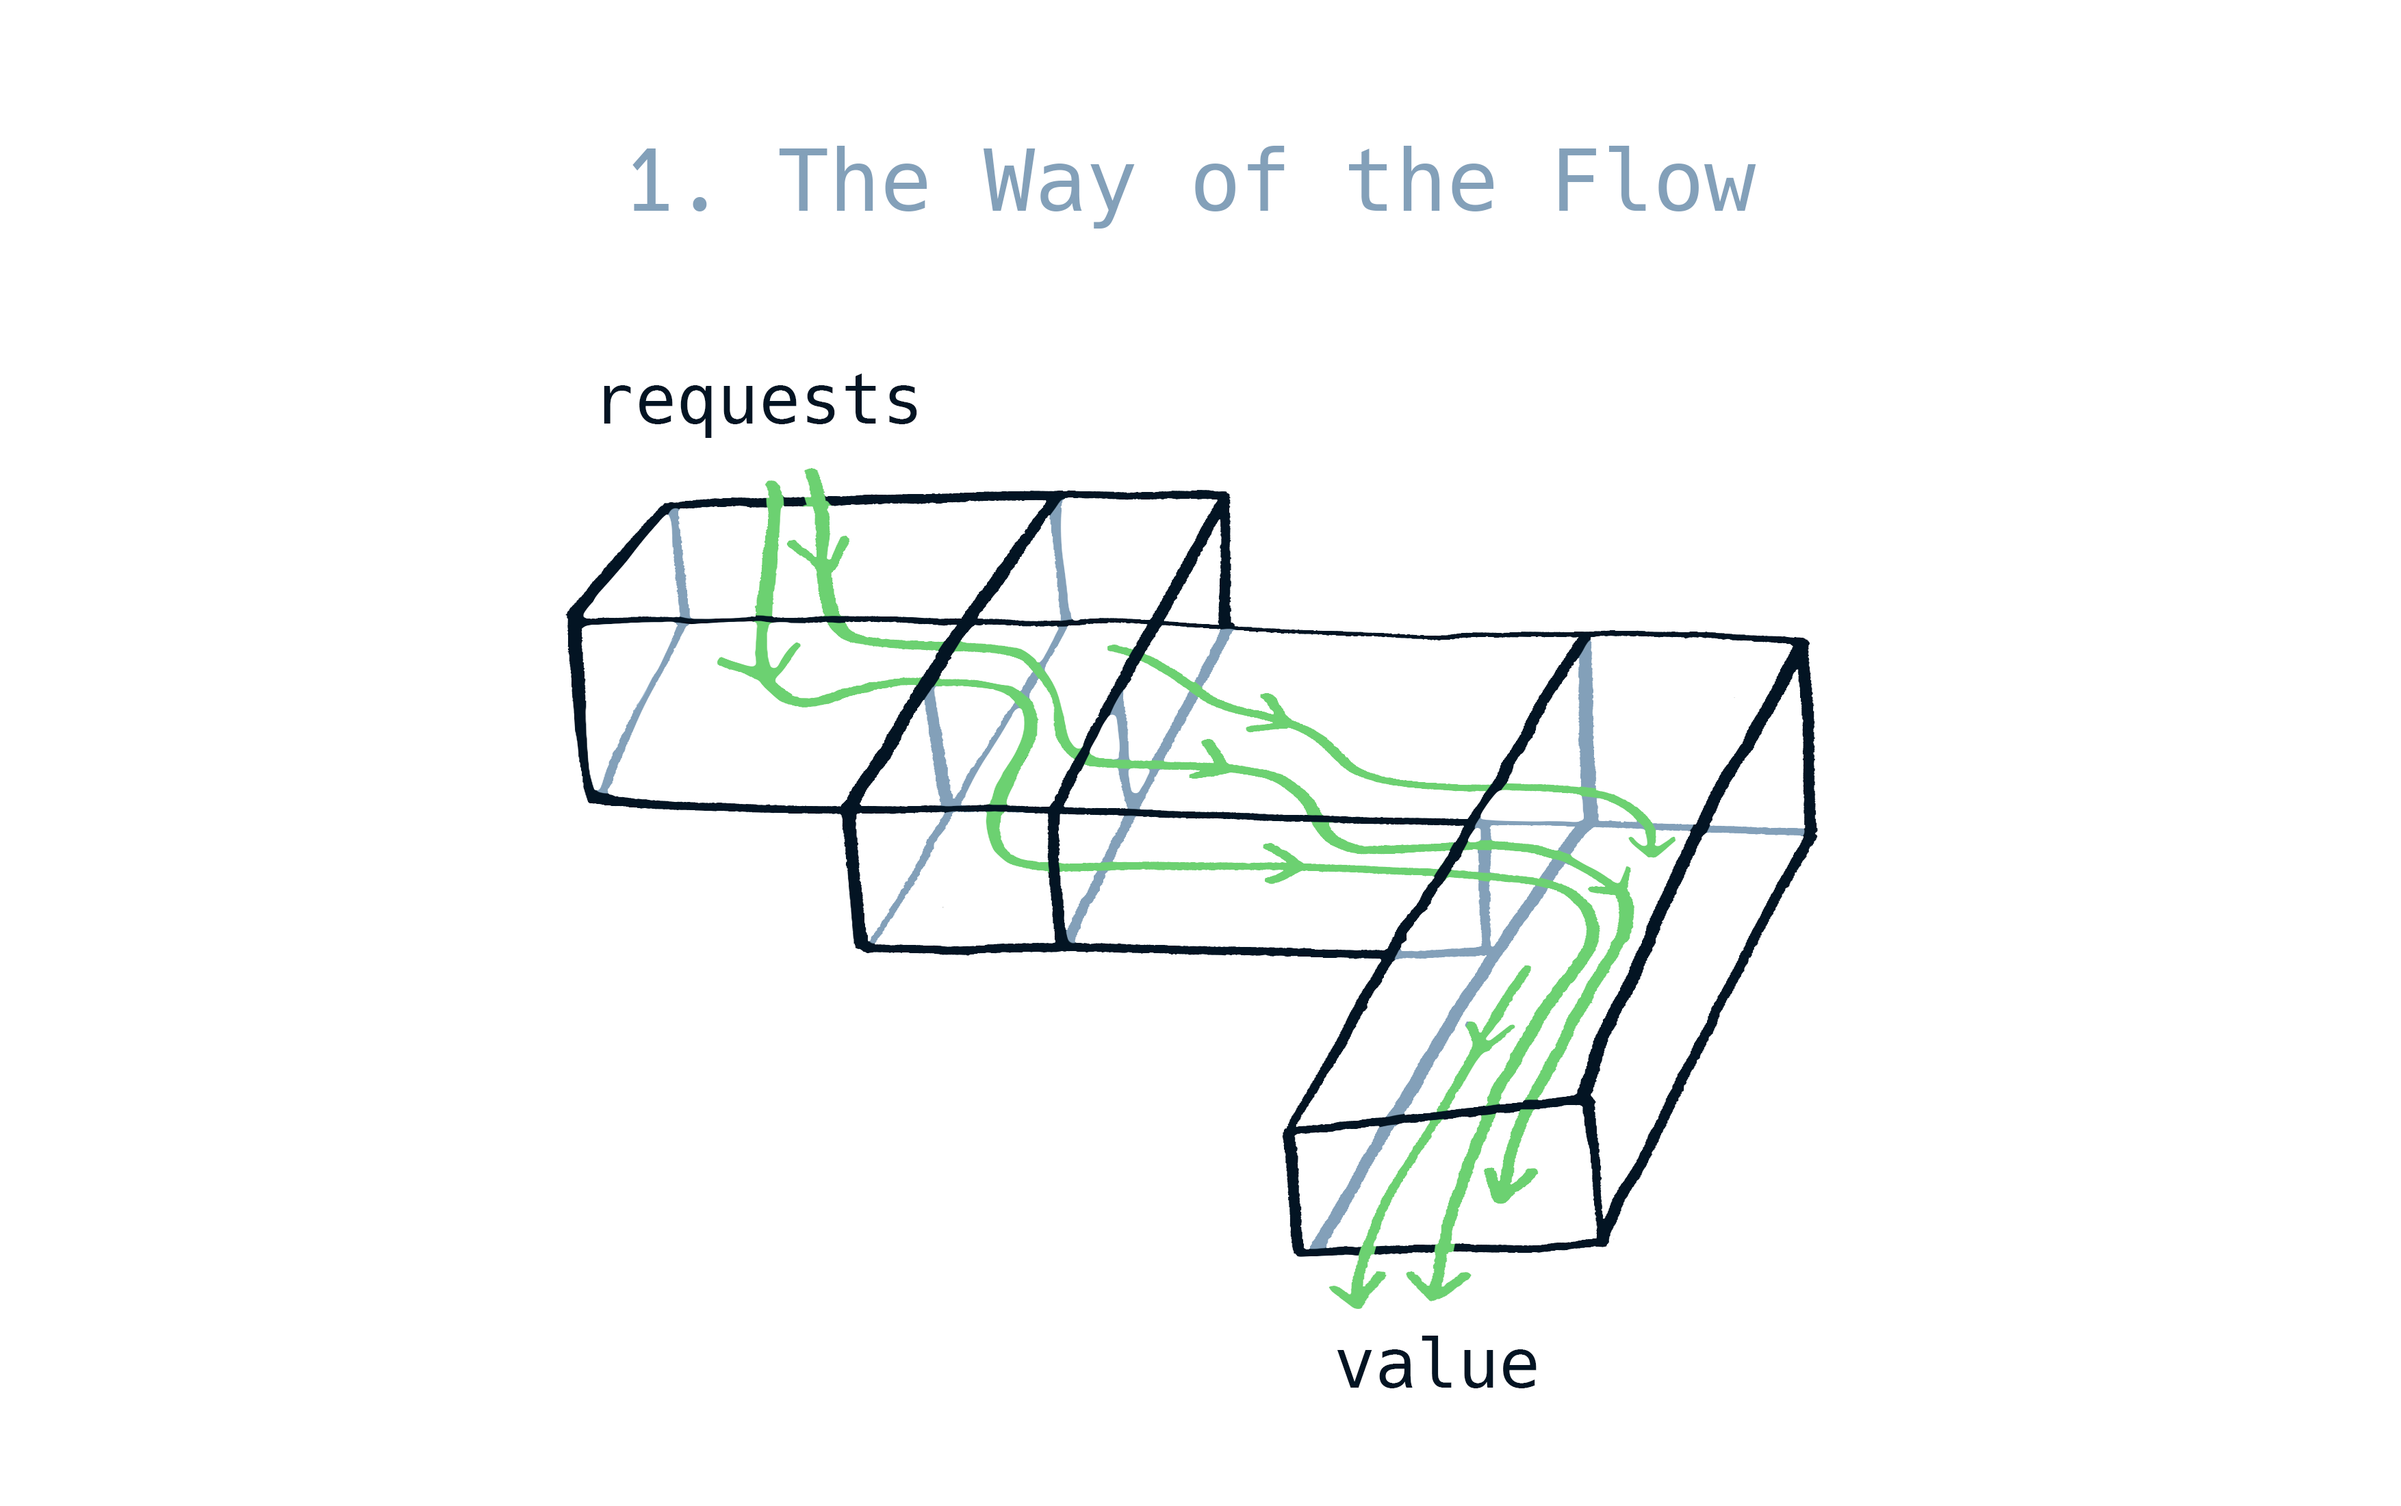
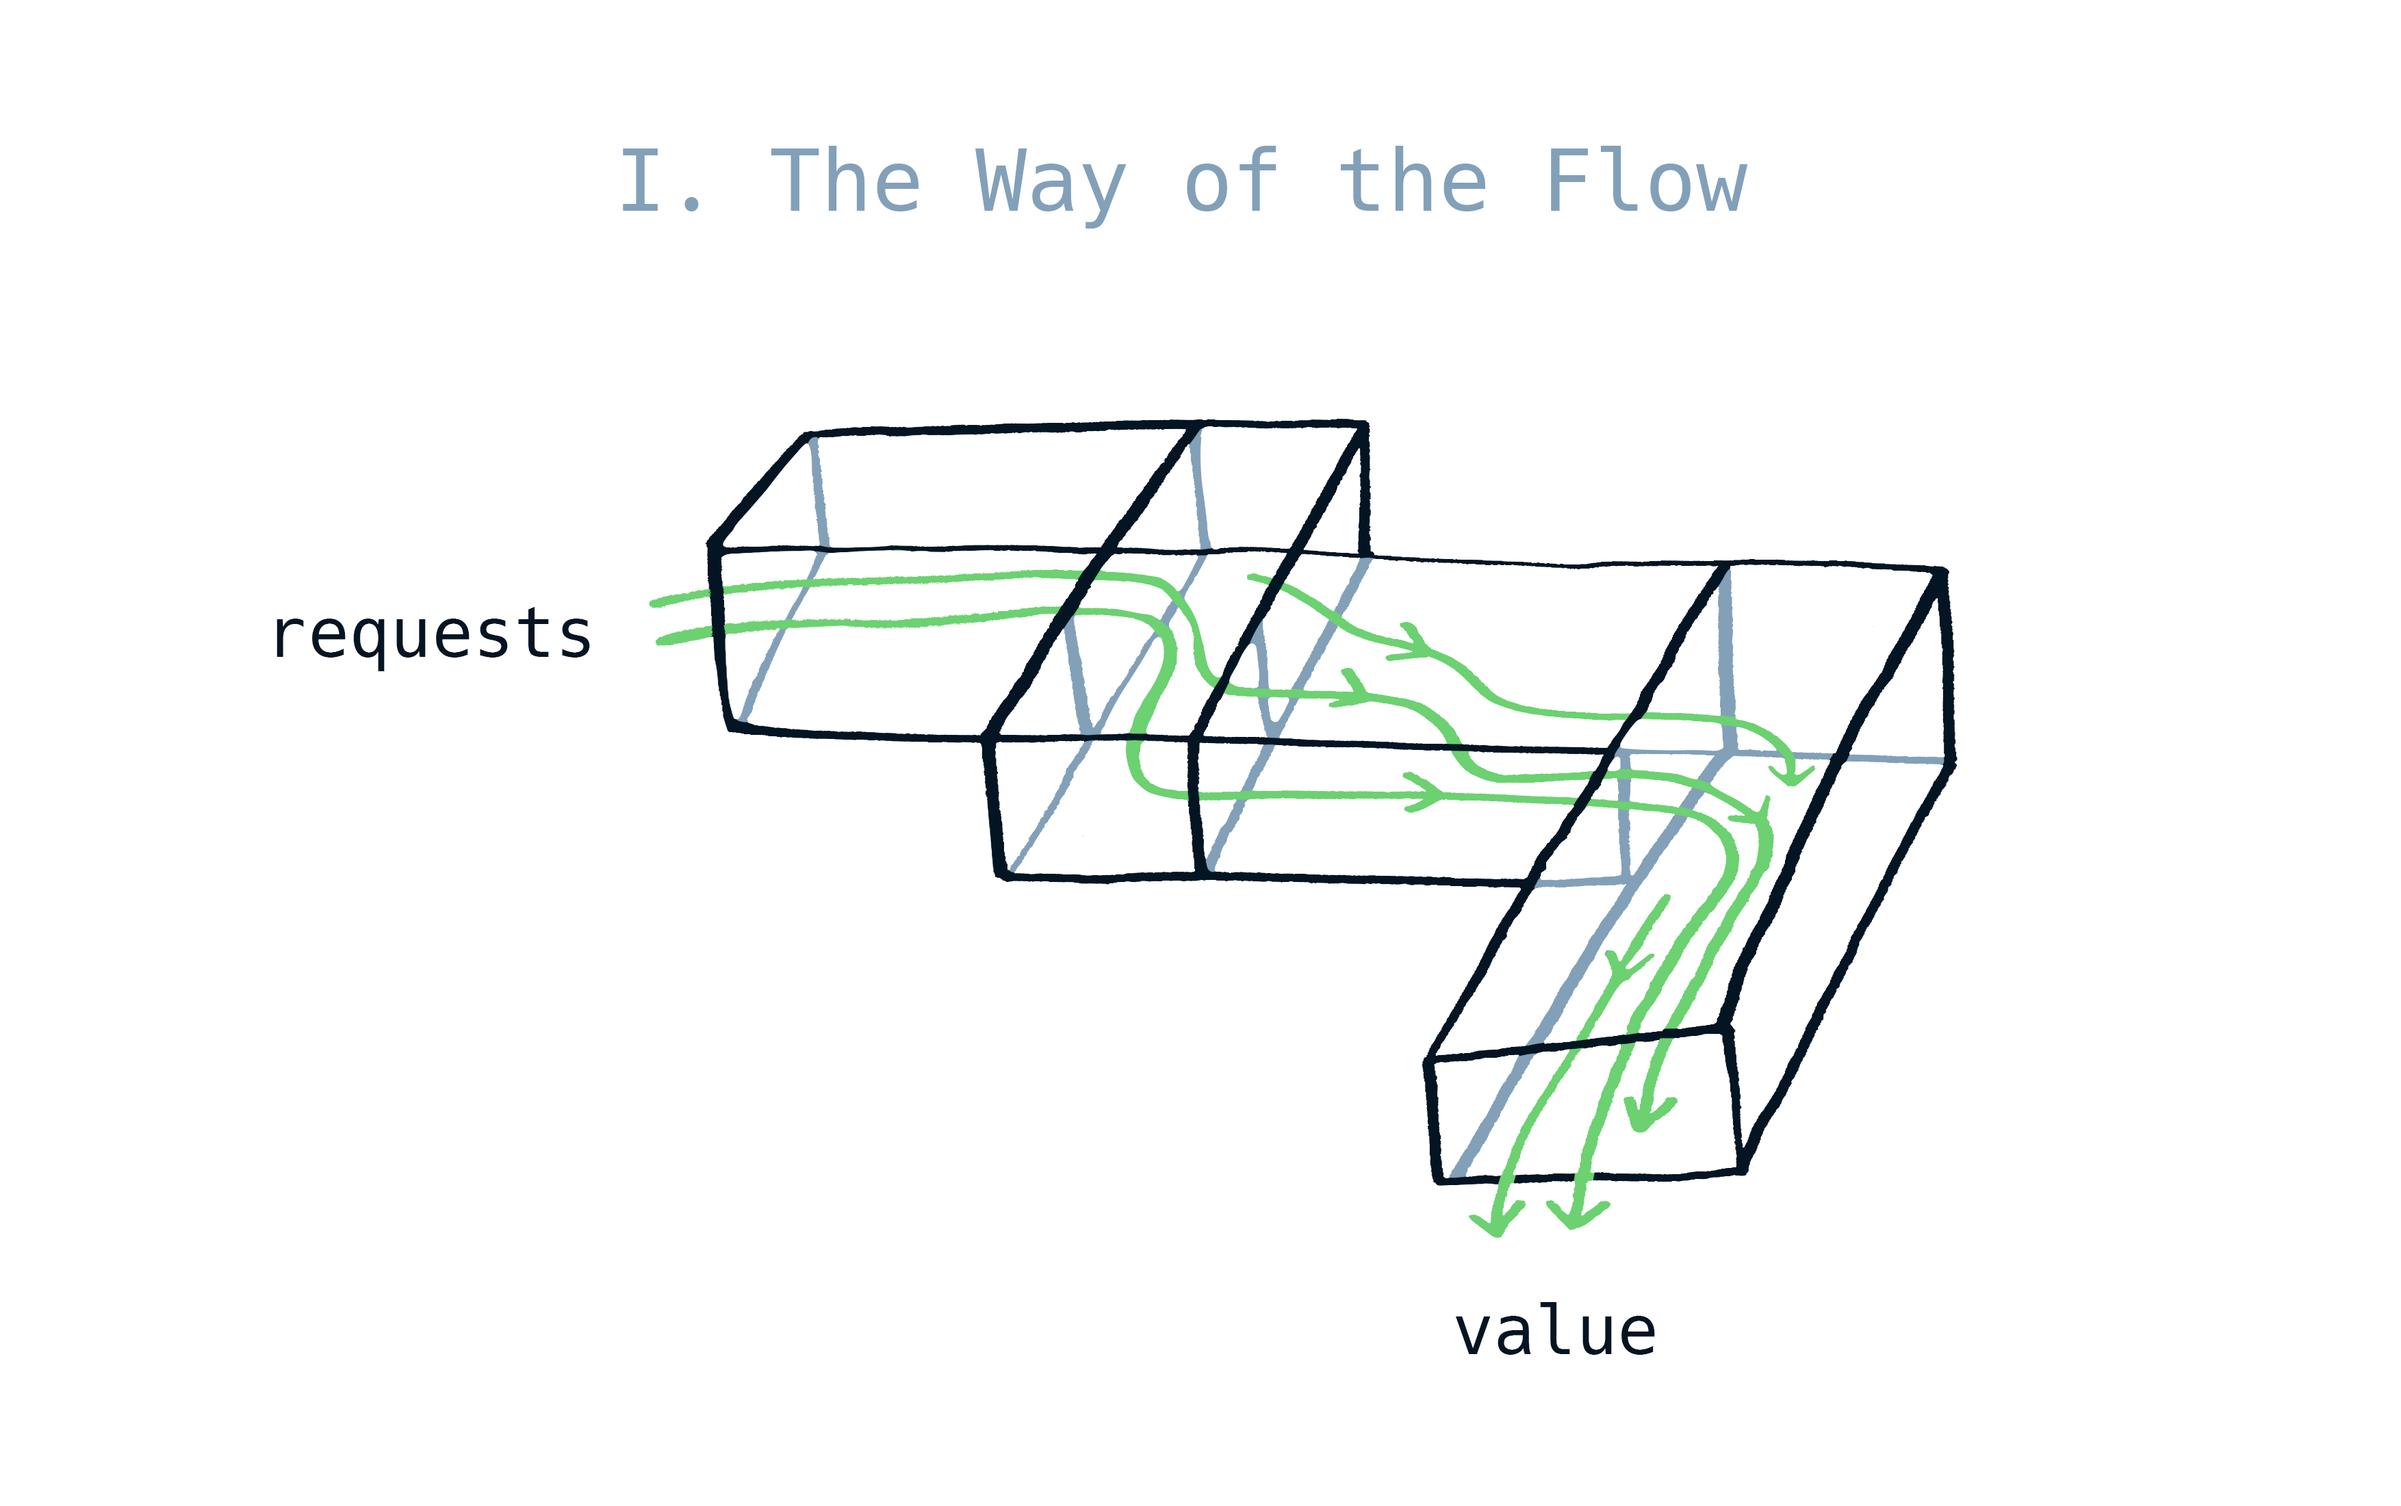
feat: add illustrations

diff --git a/content/blog/why-devs-need-devops.md b/content/blog/why-devs-need-devops.md
@@ -1,6 +1,10 @@
 ---
 title: "Why devs need DevOps"
+description: "DevOps isn't just for ops teams—it's foundational knowledge for developers. Learn why understanding The Three Ways gives you predictive powers to avoid costly mistakes and optimize your systems globally, not just locally."
+date: 2025-11-1
+image: /img/devops/hero.png
 ---
+
 
 <img src="../../public/img/devops/hero.png" alt="Devs Need Devops Hero Image" class="hero-image">
 <div class="image-attribution">
@@ -29,7 +33,7 @@ There are only three principles and each is almost obvious and easy to understan
 
 ### I. The Way of the Flow
 
-<img src="../../public/img/devops/flow.png" alt="The Flow diagram">
+<img src="../../public/img/devops/flow.png" alt="The Flow principle illustration">
 
 Imagine your software team as a black box. On the left from the box you have your customers requests and wants, on the right you have the Value the product brings. The Flow is everything that happens in the box and transforms the requests into Value. If you have a software project, the Flow exists whether you think about it or not. 
 
@@ -44,11 +48,15 @@ The Way of the Flow demands systems thinking. We need to learn to think about no
 
 ### II. The Way of Feedback
 
+<img src="../../public/img/devops/feedback.png" alt="The Feedback principle illustration">
+
 As user needs pass through The Flow to become Value, you are inevitably going to run into issues. Feedback is all the ways you discover problems during The Flow to guarantee that the Value delivery is not impeded. This includes many mechanisms: all sorts of testing, release techniques like canary releases or blue/green deployments, observability. Humans provide feedback too, of course. A ticket with a discovered bug from a user is also a mechanism of feedback.
 
 The core insight here is that the problems are easiest to fix the closer they happen to the source. A failed unit test is usually trivial to fix because it provides complete context into where the problem happened. A bug raised in production provides the least immediate information about the specific cause of the problem. The overarching goal here is to make the Feedback loops as short as possible. The shorter the loop - the easier it is to fix the problem.
 
 ### III. Continuous Learning and Experimentation
+
+<img src="../../public/img/devops/learning.png" alt="The Learning principle illustration">
 
 During the process of transforming requests into Value, the people involved are diving deep into the problems and sub-problems assigned to them. While doing this work they form new knowledge about the system itself, its environment and user needs. The issue here is that the knowledge is local to the brains of the person solving the problem. Continuous learning emphasizes that in order to be at our most effective, it's crucial to transform the local knowledge into global, accessible to the larger team. "Continuous" is the key here. When your knowledge sharing is not systemized and is not built into the daily work, you are bound to be regularly losing information and knowledge. The mechanisms here are numerous, but the main one is of course documentation. Devs frequently skip out on documentation and/or just info-dump into a README.md. This guarantees an outcome where knowledge concentrates and does not spread out through the team. Or creates "tribal knowledge" which is too extremely lossy. The Third Way demands this is systemized and approached with the same diligence as the rest of the daily work.
 
@@ -82,6 +90,8 @@ With regards to the Culture of Learning and Experimentation I don't think I even
 A lot of us accept this as just part of the job. But that's not normal. Systems should be comprehensible and should not require months to understand. Devs usually don't value that part of the work, treating knowledge sharing as an afterthought. But knowledge sharing is non-negotiable. When systemized and treated as essential work it becomes a power multiplier for the whole team. Systems become crystal clear, onboarding becomes easy and nobody has to do code archeology for hours to fix simple bugs and add features.
 
 ## The Local and Global Maxima
+
+<img src="../../public/img/devops/global_maxima.png" alt="Illustration of the local and global maxima">
 
 When the Three Ways become the truth, one gains X-Ray vision into the daily process of work. One of the insights that emerges is how decisions tend to be made and argued about. A lot of mistakes are made the same way, from optimizing towards local parameters. For example the local parameters could be the speed of development of a specific system or feature, or usage of known tools instead of the right ones. This pushes the system at this specific point towards a local maximum. It fulfills the immediate needs and goals and everyone seems to be happy, both the devs and stakeholders.
 
